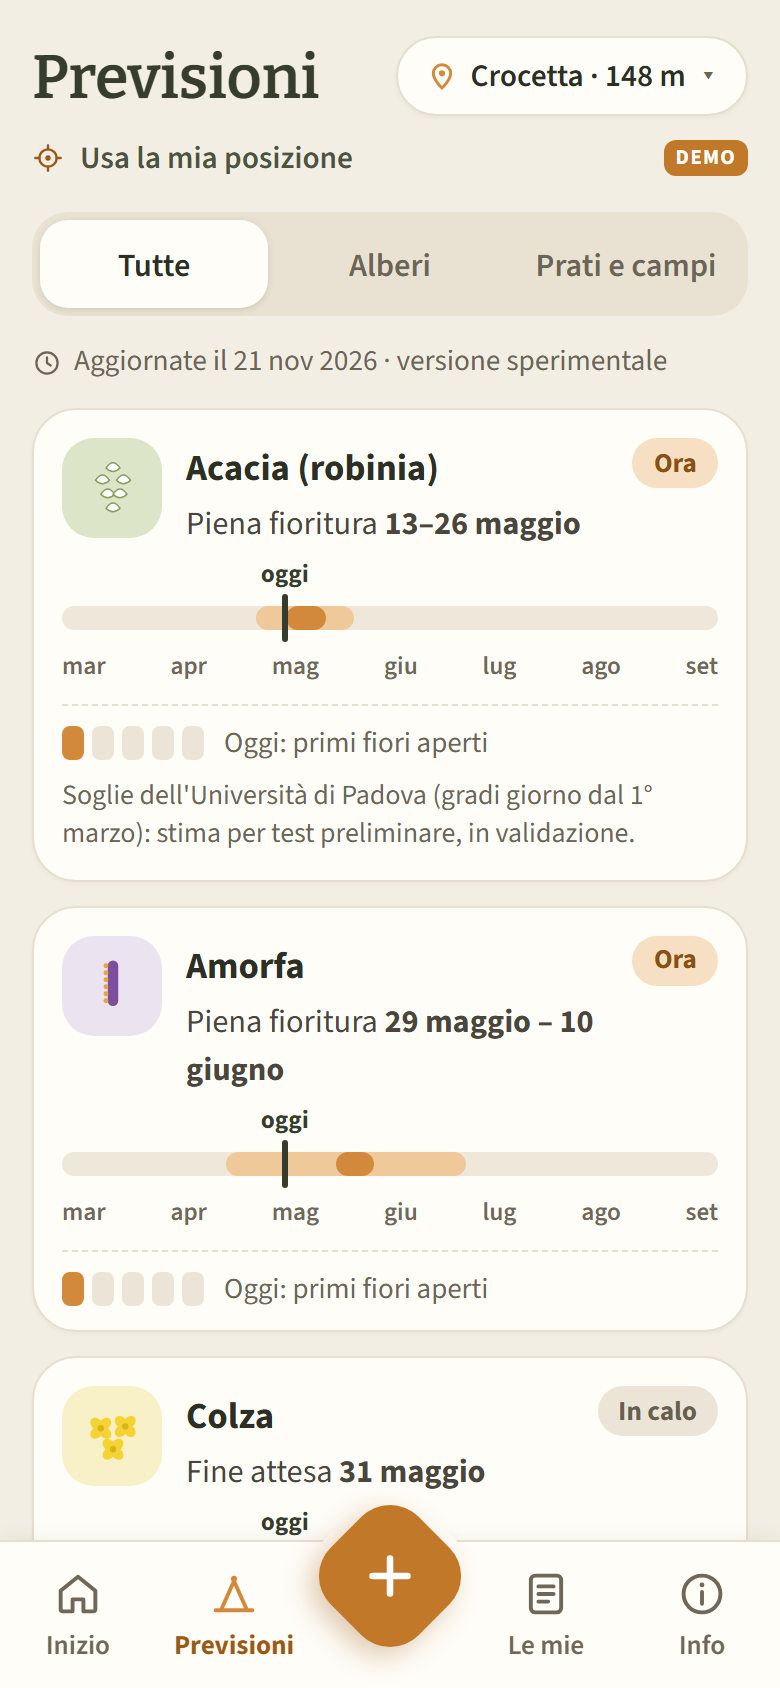
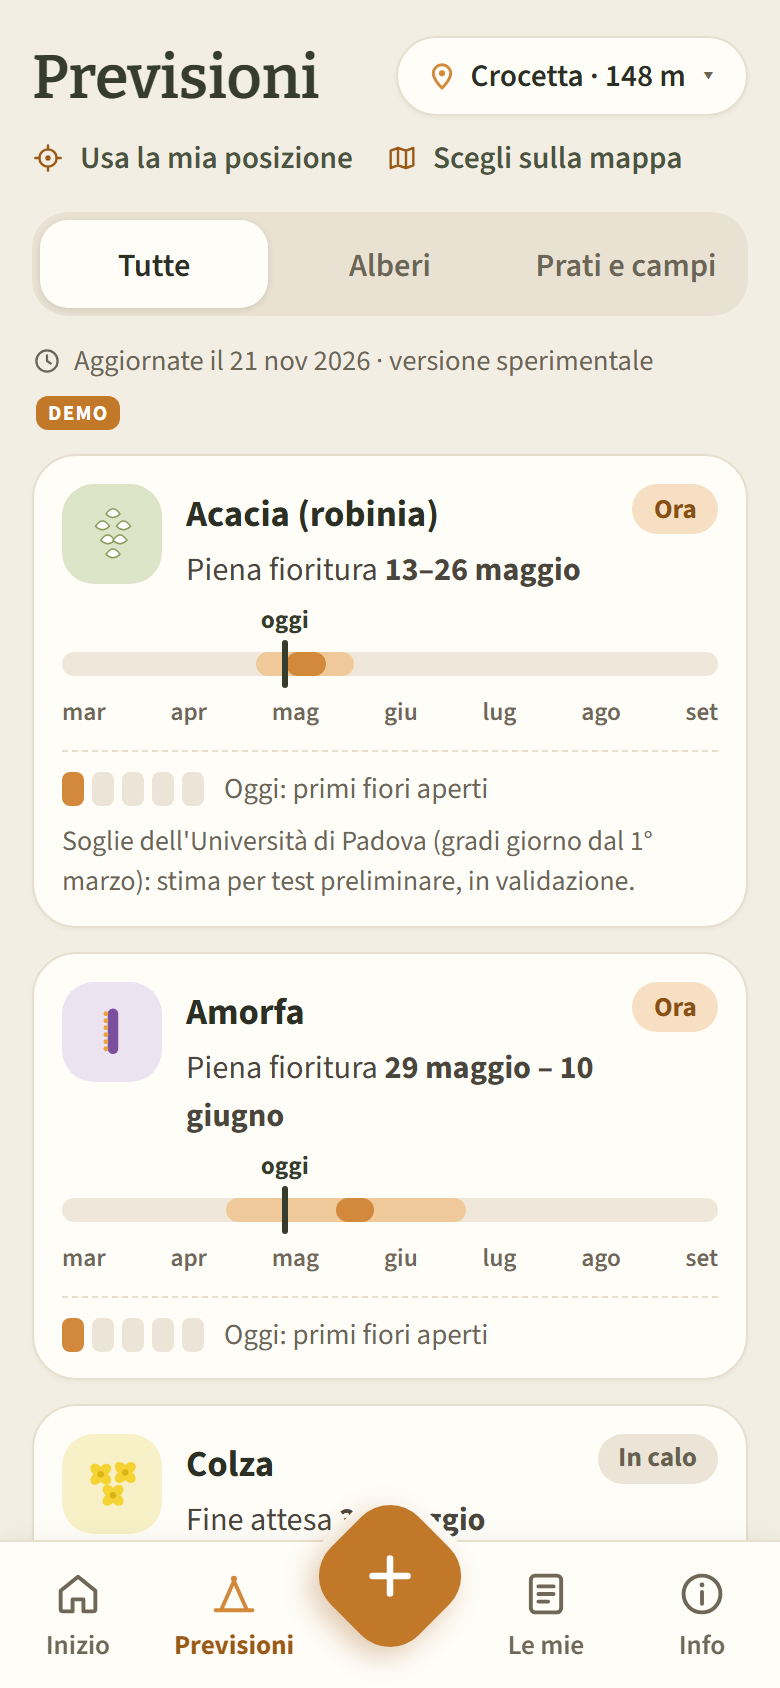
Release 0.3.2: scelta del punto sulla mappa e avviso di distanza e quota
- Previsioni: «Scegli sulla mappa» (mappa, ricerca, GPS) e scelta rapida
  dei luoghi salvati; anche «Usa la mia posizione» ricorda il punto
- Le date restano quelle della postazione più vicina: un riquadro indica
  quale postazione si usa, a quanti km e a che quota
- Quota del punto da Open-Meteo (/v1/elevation, solo coordinate, nulla
  salvato); avviso se la differenza è almeno 150 m o la distanza oltre 15 km
  (soglie provvisorie, DA VERIFICARE con UNIPD)
- Test sul testo dell'avviso; controllo nel browser nello script delle
  schermate; documentazione aggiornata

Modello di previsione e dati salvati invariati.

diff --git a/app/src/screens/Forecast.tsx b/app/src/screens/Forecast.tsx
@@ -2,8 +2,10 @@ import { useState, type ReactNode } from 'react'
 import { GROUPS, type SpeciesGroup } from '../data/catalog'
 import { SpeciesBadge } from '../components/SpeciesBadge'
 import { Meter } from '../components/Meter'
-import { IconClock, IconLocate, IconPin } from '../components/Icons'
-import { doyToDate, nearestPoint, placeWord, updatedLabel } from '../lib/forecast'
+import { IconClock, IconLocate, IconMap, IconPin } from '../components/Icons'
+import { MapPicker } from '../components/MapPicker'
+import type { Site } from '../lib/types'
+import { doyToDate, placeNote, placeWord, updatedLabel } from '../lib/forecast'
 import type { ForecastState } from '../lib/useForecast'
 
 function fmtStart(mmdd: string | null | undefined): string {
@@ -25,8 +27,11 @@ const BAR_END = 273 // 30 settembre
 const pct = (doy: number) => `${Math.min(100, Math.max(0, ((doy - BAR_START) / (BAR_END - BAR_START)) * 100))}%`
 const width = (a: number, b: number) => `calc(${pct(b)} - ${pct(a)})`
 
-export function Forecast({ fc, badge }: { fc: ForecastState; badge?: ReactNode }) {
-  const { data, point, choose, todayDoy, seasonStarted, cards } = fc
+export function Forecast({ fc, badge, sites }: { fc: ForecastState; badge?: ReactNode; sites: Site[] }) {
+  const { data, point, choose, pickPlace, place, todayDoy, seasonStarted, cards } = fc
+  const [picking, setPicking] = useState(false)
+  const [draft, setDraft] = useState<{ lat: number; lon: number } | null>(null)
+  const closePicker = () => { setPicking(false); setDraft(null) }
   const [gpsMsg, setGpsMsg] = useState('')
   const [group, setGroup] = useState<SpeciesGroup | 'all'>('all')
 
@@ -34,10 +39,7 @@ export function Forecast({ fc, badge }: { fc: ForecastState; badge?: ReactNode }
     if (!data || !navigator.geolocation) return setGpsMsg('Posizione non disponibile su questo dispositivo.')
     setGpsMsg('Cerco la tua posizione…')
     navigator.geolocation.getCurrentPosition(
-      (pos) => {
-        const n = nearestPoint(data.points, pos.coords.latitude, pos.coords.longitude)
-        if (n) { choose(n.point.id); setGpsMsg(`Punto di riferimento più vicino: ${n.point.name} (${n.km.toFixed(0)} km).`) }
-      },
+      (pos) => { pickPlace(pos.coords.latitude, pos.coords.longitude, 'te'); setGpsMsg(''); closePicker() },
       () => setGpsMsg('Non riesco a leggere la posizione: scegli il punto dall\'elenco.'),
       { enableHighAccuracy: false, timeout: 10000 }
     )
@@ -72,9 +74,43 @@ export function Forecast({ fc, badge }: { fc: ForecastState; badge?: ReactNode }
       </div>
       <div className="fc-tools">
         <button className="btn quiet" onClick={useGps}><IconLocate /> Usa la mia posizione</button>
-        {badge}
+        <button className="btn quiet" onClick={() => (picking ? closePicker() : setPicking(true))} aria-expanded={picking}><IconMap /> Scegli sulla mappa</button>
       </div>
       {gpsMsg && <p className="hint">{gpsMsg}</p>}
+
+      {picking && (
+        <div className="fc-picker">
+          <b>Per quale punto vuoi le previsioni?</b>
+          {sites.length > 0 && (
+            <div className="site-chips" aria-label="I tuoi luoghi salvati">
+              {sites.map((s) => (
+                <button key={s.id} className="chip" onClick={() => { pickPlace(s.lat, s.lon, s.name); closePicker() }}><IconPin />{s.name}</button>
+              ))}
+            </div>
+          )}
+          <MapPicker
+            lat={draft?.lat ?? null}
+            lon={draft?.lon ?? null}
+            onChange={(a, b) => setDraft({ lat: a, lon: b })}
+            height={260}
+            hint="Tocca la mappa nel punto che ti interessa, per esempio il tuo apiario. Le date saranno quelle della postazione più vicina."
+          />
+          <div className="fc-picker-actions">
+            <button className="btn secondary small" onClick={closePicker}>Annulla</button>
+            <button className="btn small" disabled={!draft} onClick={() => { if (draft) { pickPlace(draft.lat, draft.lon, 'il punto scelto'); closePicker() } }}>Usa questo punto</button>
+          </div>
+        </div>
+      )}
+
+      {place && point && !picking && (() => {
+        const n = placeNote(place, point)
+        return (
+          <div className={'fc-place-note' + (n.warn ? ' warn' : '')} role="status">
+            <p>{n.text}</p>
+            {n.warn && <p className="w">{n.warn}</p>}
+          </div>
+        )
+      })()}
 
       <div className="seg" role="tablist" aria-label="Gruppo di piante">
         {[{ id: 'all' as const, label: 'Tutte' }, ...GROUPS].map((g) => (
@@ -82,7 +118,7 @@ export function Forecast({ fc, badge }: { fc: ForecastState; badge?: ReactNode }
         ))}
       </div>
 
-      <p className="fc-note"><IconClock /> {updatedLabel(data.generated_at, new Date())} · versione sperimentale</p>
+      <p className="fc-note"><IconClock /> {updatedLabel(data.generated_at, new Date())} · versione sperimentale{badge}</p>
       {!seasonStarted && <p className="fc-small">La stagione {data.season} non è ancora iniziata: date calcolate con il meteo degli ultimi 20 anni.</p>}
 
       {shown.map(({ s, f, st, phase }) => {

diff --git a/app/src/lib/useForecast.ts b/app/src/lib/useForecast.ts
@@ -1,9 +1,10 @@
 import { useEffect, useMemo, useState } from 'react'
 import { SPECIES, type Species } from '../data/catalog'
 import type { Site } from './types'
-import { describe, loadForecast, nearestPoint, phaseOn, seasonDoy, type ForecastFile, type ForecastPoint, type PhaseNow, type SpeciesForecast, type Status } from './forecast'
+import { describe, fetchElevation, loadForecast, nearestPoint, phaseOn, seasonDoy, type ForecastFile, type MyPlace, type ForecastPoint, type PhaseNow, type SpeciesForecast, type Status } from './forecast'
 
 const STORE_KEY = 'apipro.forecastPoint'
+const PLACE_KEY = 'apipro.forecastPlace'
 const NOW_RANK: Record<PhaseNow, number> = { F3: 0, F2: 1, F1: 2, F4: 3, F0: 4, F5: 5 }
 
 export interface SpeciesCard {
@@ -19,7 +20,11 @@ export interface SpeciesCard {
 export interface ForecastState {
   data: ForecastFile | null | undefined
   point: ForecastPoint | undefined
+  /** scelta della postazione dall'elenco (cancella il punto scelto) */
   choose: (id: string) => void
+  /** punto scelto con GPS, mappa o luogo salvato: usa la postazione più vicina e ne ricorda il punto */
+  pickPlace: (lat: number, lon: number, label: string) => void
+  place: MyPlace | null
   todayDoy: number | null
   seasonStarted: boolean
   cards: SpeciesCard[]
@@ -32,6 +37,10 @@ export function useForecast(sites: Site[]): ForecastState {
     try { return localStorage.getItem(STORE_KEY) ?? '' } catch { return '' }
   })
 
+  const [place, setPlace] = useState<MyPlace | null>(() => {
+    try { return JSON.parse(localStorage.getItem(PLACE_KEY) ?? 'null') as MyPlace | null } catch { return null }
+  })
+
   useEffect(() => { loadForecast().then(setData) }, [])
 
   // punto iniziale: scelta precedente, altrimenti il più vicino al primo luogo salvato, altrimenti Treviso
@@ -42,7 +51,30 @@ export function useForecast(sites: Site[]): ForecastState {
     setPointId(near ?? data.points.find((p) => p.id === 'treviso')?.id ?? data.points[0]?.id ?? '')
   }, [data, sites, pointId])
 
-  const choose = (id: string) => { setPointId(id); try { localStorage.setItem(STORE_KEY, id) } catch { /* memoria non disponibile */ } }
+  const savePoint = (id: string) => { setPointId(id); try { localStorage.setItem(STORE_KEY, id) } catch { /* memoria non disponibile */ } }
+  const savePlace = (p: MyPlace | null) => {
+    setPlace(p)
+    try { if (p) localStorage.setItem(PLACE_KEY, JSON.stringify(p)); else localStorage.removeItem(PLACE_KEY) } catch { /* memoria non disponibile */ }
+  }
+  const choose = (id: string) => { savePoint(id); savePlace(null) }
+  const pickPlace = (lat: number, lon: number, label: string) => {
+    if (!data) return
+    const n = nearestPoint(data.points, lat, lon)
+    if (!n) return
+    savePoint(n.point.id)
+    const p: MyPlace = { lat, lon, label, elevation: null }
+    savePlace(p)
+    // la quota arriva dopo (serve la rete); senza rete resta solo l'avviso di distanza
+    fetchElevation(lat, lon).then((elevation) => {
+      if (elevation == null) return
+      setPlace((cur) => {
+        if (!cur || cur.lat !== lat || cur.lon !== lon) return cur // nel frattempo è stato scelto un altro punto
+        const next = { ...cur, elevation }
+        try { localStorage.setItem(PLACE_KEY, JSON.stringify(next)) } catch { /* memoria non disponibile */ }
+        return next
+      })
+    })
+  }
 
   const point = data?.points.find((p) => p.id === pointId)
   const today = new Date()
@@ -64,5 +96,5 @@ export function useForecast(sites: Site[]): ForecastState {
     }).sort((a, b) => a.order - b.order || (a.order === 0 ? a.rank - b.rank || b.wait - a.wait : a.wait - b.wait))
   }, [data, point, todayDoy, seasonStarted])
 
-  return { data, point, choose, todayDoy, seasonStarted, cards }
+  return { data, point, choose, pickPlace, place, todayDoy, seasonStarted, cards }
 }

diff --git a/app/src/lib/forecast.ts b/app/src/lib/forecast.ts
@@ -64,6 +64,50 @@ function distKm(aLat: number, aLon: number, bLat: number, bLon: number): number 
   return Math.sqrt(x * x + y * y) * 6371
 }
 
+/** Distanza in km tra due coordinate (approssimazione valida per il Veneto). */
+export const distanceKm = distKm
+
+/**
+ * Punto scelto dall'utente (GPS, mappa o luogo salvato): le previsioni restano quelle della postazione più vicina,
+ * ma si avvisa se il punto è lontano o a quota diversa.
+ */
+export interface MyPlace { lat: number; lon: number; label: string; elevation: number | null }
+
+/** Soglie dell'avviso [DA VERIFICARE con UNIPD]. */
+export const FAR_KM = 15
+export const ELEV_DIFF_M = 150
+
+export interface PlaceNote { text: string; warn: string | null }
+
+/** Frase su quale postazione si usa e, se serve, l'avviso di distanza o di quota. */
+export function placeNote(place: MyPlace, station: ForecastPoint): PlaceNote {
+  const km = distKm(place.lat, place.lon, station.lat, station.lon)
+  const kmTxt = km < 1 ? 'a meno di 1 km' : `a ${Math.round(km)} km`
+  const se = station.elevation != null ? Math.round(station.elevation) : null
+  const pe = place.elevation != null ? Math.round(place.elevation) : null
+  const from = place.label.startsWith('il ') ? 'dal ' + place.label.slice(3) : 'da ' + place.label
+  const text = `Date della postazione ${station.name}${se != null ? ` (${se} m)` : ''}, ${kmTxt} ${from}${pe != null ? ` (${pe} m)` : ''}.`
+  if (pe != null && se != null && Math.abs(pe - se) >= ELEV_DIFF_M) {
+    const later = pe > se
+    return { text, warn: `Il tuo punto è a ${pe} m, la postazione a ${se} m: qui la fioritura può arrivare ${later ? 'più tardi' : 'prima'} delle date indicate.` }
+  }
+  if (km > FAR_KM) return { text, warn: 'Il tuo punto è lontano dalla postazione: considera le date solo indicative.' }
+  return { text, warn: null }
+}
+
+/** Quota del punto (modello del terreno di Open-Meteo, circa 90 m). null se non disponibile. */
+export async function fetchElevation(lat: number, lon: number): Promise<number | null> {
+  try {
+    const r = await fetch(`https://api.open-meteo.com/v1/elevation?latitude=${lat.toFixed(4)}&longitude=${lon.toFixed(4)}`)
+    if (!r.ok) return null
+    const j = (await r.json()) as { elevation?: number[] }
+    const e = j.elevation?.[0]
+    return typeof e === 'number' && Number.isFinite(e) ? e : null
+  } catch {
+    return null
+  }
+}
+
 export function nearestPoint(points: ForecastPoint[], lat: number, lon: number): { point: ForecastPoint; km: number } | null {
   let best: { point: ForecastPoint; km: number } | null = null
   for (const p of points) {

diff --git a/app/src/lib/forecast.test.ts b/app/src/lib/forecast.test.ts
@@ -1,5 +1,5 @@
 import { describe as d, expect, it } from 'vitest'
-import { METER_LEVEL, dateToDoy, describe, doyToDate, formatRange, nearestPoint, phaseOn, placeWord, seasonDoy, shortPlace, shortSpecies } from './forecast'
+import { METER_LEVEL, dateToDoy, describe, doyToDate, formatRange, nearestPoint, phaseOn, placeNote, placeWord, seasonDoy, shortPlace, shortSpecies } from './forecast'
 
 const f = (a: number, b: number, c: number) => ({ p10: a, p50: b, p90: c, n: 30, fixed: false })
 const robinia = { F1: f(110, 115, 120), F3: f(122, 126, 130), F5: f(138, 142, 147), phase_today: 'F0' }
@@ -40,6 +40,16 @@ d('previsioni', () => {
     expect(phaseOn(robinia, 150)).toBe('F5')
     expect(phaseOn({ ...robinia, F5: null }, 120)).toBeNull()
     expect([phaseOn(robinia, 100), phaseOn(robinia, 116), phaseOn(robinia, 121), phaseOn(robinia, 126), phaseOn(robinia, 135), phaseOn(robinia, 150)].map((p) => METER_LEVEL[p!])).toEqual([0, 1, 3, 4, 2, 0])
+  })
+  it('avvisa se il punto scelto è lontano o a quota diversa', () => {
+    const bassano = { id: 'bassano', name: 'Bassano del Grappa', zone: 'collina', lat: 45.7667, lon: 11.734, elevation: 130 }
+    const vicino = placeNote({ lat: 45.77, lon: 11.74, label: 'Apiario', elevation: 160 }, bassano)
+    expect(vicino.warn).toBeNull()
+    expect(vicino.text).toBe('Date della postazione Bassano del Grappa (130 m), a meno di 1 km da Apiario (160 m).')
+    expect(placeNote({ lat: 45.8, lon: 11.75, label: 'Grappa', elevation: 600 }, bassano).warn).toContain('più tardi')
+    expect(placeNote({ lat: 45.8, lon: 11.75, label: 'Pianura', elevation: -30 }, bassano).warn).toContain('prima')
+    expect(placeNote({ lat: 45.95, lon: 11.75, label: 'Lontano', elevation: null }, bassano).warn).toContain('lontano')
+    expect(placeNote({ lat: 45.77, lon: 11.74, label: 'il punto scelto', elevation: null }, bassano).text).toContain('dal punto scelto.')
   })
   it('accorcia i nomi', () => {
     expect(shortPlace('Crocetta del Montello')).toBe('Crocetta d. M.')

diff --git a/app/src/styles.css b/app/src/styles.css
@@ -234,3 +234,19 @@ code { background: var(--tile); padding: 0.1rem 0.35rem; border-radius: 6px; }
 /* titoli delle pagine Le mie, Luoghi, Info, Esportazione */
 .wrap > section > h2:first-child { font-size: 1.9rem; margin: 12px 0 10px; }
 .summary .btn.link { font-size: 0.88rem; color: var(--ocra-text); padding: 0 0.3rem; }
+
+/* ---- Previsioni: punto scelto (release 0.3.2) ---- */
+.fc-tools { flex-wrap: wrap; column-gap: 16px; row-gap: 0; justify-content: flex-start; }
+.fc-note { flex-wrap: wrap; }
+.fc-note { font-size: 0.84rem; column-gap: 6px; }
+.fc-note .env { margin-left: 2px; }
+.fc-picker { background: var(--card); border: 1px solid var(--line); border-radius: var(--r-card); padding: 14px; margin: 8px 0 12px; display: flex; flex-direction: column; gap: 10px; }
+.fc-picker .map-picker .hint { margin: 6px 0 0; font-size: 0.86rem; }
+.site-chips { display: flex; flex-wrap: wrap; gap: 8px; }
+.chip { display: inline-flex; align-items: center; gap: 6px; background: var(--paper); border: 1px solid var(--line); border-radius: 999px; padding: 7px 12px; font: 600 0.9rem var(--sans); color: var(--text); cursor: pointer; max-width: 100%; }
+.chip svg { color: var(--ocra); flex: none; }
+.fc-picker-actions { display: flex; justify-content: flex-end; gap: 8px; }
+.fc-place-note { background: var(--card); border: 1px solid var(--line); border-radius: 16px; padding: 10px 12px; margin: 6px 0 12px; font-size: 0.9rem; }
+.fc-place-note p { margin: 0; line-height: 1.4; color: var(--muted); }
+.fc-place-note.warn { border-color: #e9c48f; background: #fff6e8; }
+.fc-place-note .w { margin-top: 6px; color: #7a4a10; font-weight: 600; }

diff --git a/app/src/components/MapPicker.tsx b/app/src/components/MapPicker.tsx
@@ -12,6 +12,8 @@ interface Props {
   onChange: (lat: number, lon: number, source: LocationSource) => void
   readOnly?: boolean
   height?: number
+  /** testo sotto la mappa (predefinito: posizione delle piante osservate) */
+  hint?: string
 }
 
 function ClickHandler({ onPick }: { onPick: (lat: number, lon: number) => void }) {
@@ -34,7 +36,7 @@ interface SearchResult {
 }
 
 /** Mappa per indicare la posizione delle PIANTE osservate: tocco sulla mappa, GPS (dopo autorizzazione) o ricerca località. */
-export function MapPicker({ lat, lon, onChange, readOnly, height = 300 }: Props) {
+export function MapPicker({ lat, lon, onChange, readOnly, height = 300, hint }: Props) {
   const [q, setQ] = useState('')
   const [results, setResults] = useState<SearchResult[]>([])
   const [msg, setMsg] = useState('')
@@ -111,7 +113,7 @@ export function MapPicker({ lat, lon, onChange, readOnly, height = 300 }: Props)
         <Recenter lat={lat} lon={lon} />
         {lat != null && lon != null && <CircleMarker center={[lat, lon]} radius={10} pathOptions={{ color: '#7a4a12', fillColor: '#f2b632', fillOpacity: 0.9 }} />}
       </MapContainer>
-      {!readOnly && <p className="hint">Tocca la mappa nel punto in cui si trovano le piante (non serve essere lì ora).</p>}
+      {!readOnly && <p className="hint">{hint ?? 'Tocca la mappa nel punto in cui si trovano le piante (non serve essere lì ora).'}</p>}
     </div>
   )
 }

diff --git a/app/src/components/Icons.tsx b/app/src/components/Icons.tsx
@@ -32,6 +32,10 @@ export const IconLocate = () => (
   <svg width="16" height="16" viewBox="0 0 24 24" aria-hidden="true"><circle {...P} cx="12" cy="12" r="6.5" /><circle cx="12" cy="12" r="2" fill="currentColor" /><path {...P} d="M12 2.5v3M12 18.5v3M2.5 12h3M18.5 12h3" /></svg>
 )
 
+export const IconMap = () => (
+  <svg width="16" height="16" viewBox="0 0 24 24" aria-hidden="true"><path {...P} d="M9 4.5 3.5 6.5v13L9 17.5l6 2 5.5-2v-13L15 6.5z M9 4.5v13 M15 6.5v13" /></svg>
+)
+
 /** Petali del logo ApiPro, usati come decorazione semitrasparente. */
 export const Petals = ({ className }: { className?: string }) => (
   <svg className={className} viewBox="0 0 120 120" aria-hidden="true">

diff --git a/app/src/App.tsx b/app/src/App.tsx
@@ -120,7 +120,7 @@ export default function App() {
         {view === 'sites' && <Sites store={store} sites={sites} onChanged={refresh} />}
         {view === 'info' && <Info participantId={pid} mode={store.mode} />}
         {view === 'export' && <Export store={store} />}
-        {view === 'forecast' && <Forecast fc={fc} badge={badge} />}
+        {view === 'forecast' && <Forecast fc={fc} badge={badge} sites={sites} />}
       </main>
 
       {view !== 'new' && (

diff --git a/docs/PREVISIONI.md b/docs/PREVISIONI.md
@@ -107,6 +107,19 @@ Test: `python -m pytest model/tests`.
   (F0 = 0, F1 = 1, F2 = 3, F3 = 4, F4 = 2, F5 = 0). Il modello non distingue F1 e F2: la divisione serve solo al
   misuratore. Dettagli in [GRAFICA.md](GRAFICA.md).
 
+## Scelta del punto e avviso di quota (release 0.3.2)
+
+- In Previsioni si può scegliere il punto con **Usa la mia posizione** (GPS), **Scegli sulla mappa** oppure toccando
+  uno dei **luoghi salvati**. Le date restano quelle della **postazione più vicina**: il modello non calcola il punto scelto.
+- L'app mostra quale postazione usa, a quanti km e a che quota rispetto al punto scelto. La quota del punto viene chiesta
+  a Open-Meteo (`/v1/elevation`, modello del terreno di circa 90 m): si inviano solo le coordinate, nulla viene salvato
+  sui server del progetto. Senza rete resta solo l'indicazione della distanza.
+- Avviso se la differenza di quota è almeno **150 m** («qui la fioritura può arrivare più tardi / prima») oppure se il
+  punto è a più di **15 km** dalla postazione («date solo indicative»). Soglie provvisorie [DA VERIFICARE con UNIPD].
+- Scegliendo una postazione dall'elenco, il punto scelto e l'avviso spariscono.
+- Prossimi passi (con UNIPD e con le segnalazioni): correzione delle date per la quota e previsioni calcolate sui luoghi
+  salvati, senza rendere pubbliche le posizioni degli apiari.
+
 ## Limiti noti e punti da validare con UNIPD
 
 - Le finestre di letteratura sono ampie e riferite in parte all'Italia intera: le soglie vanno affinate con le

diff --git a/docs/GRAFICA.md b/docs/GRAFICA.md
@@ -49,7 +49,8 @@ nella cache dell'app installata: funzionano anche senza rete.
 - **Inizio:** card verde scura con i petali del logo, «+ Segnala una fioritura»; «In fiore vicino a te» con 3 card
   (specie in fioritura ora, poi le più vicine, dal punto scelto) e il misuratore; «Il tuo contributo» con segnalazioni
   inviate e luoghi salvati; loghi istituzionali e dicitura FEASR in fondo.
-- **Previsioni:** titolo, etichetta del punto con quota e menu a tendina, «Usa la mia posizione», filtro
+- **Previsioni:** titolo, etichetta del punto con quota e menu a tendina, «Usa la mia posizione» e «Scegli sulla mappa»
+  (dalla 0.3.2: mappa e luoghi salvati, riquadro con postazione usata e avviso di quota su fondo ocra chiaro), filtro
   «Tutte / Alberi / Prati e campi», card per specie con date in grassetto, pillola di stato, barra della stagione
   marzo–settembre (fascia chiara = margine, nucleo ocra = piena fioritura, trattino «oggi») e misuratore.
 - **Segnala:** barra di avanzamento a segmenti, «PASSO X DI 6», domanda in Bitter, etichetta della specie scelta,
